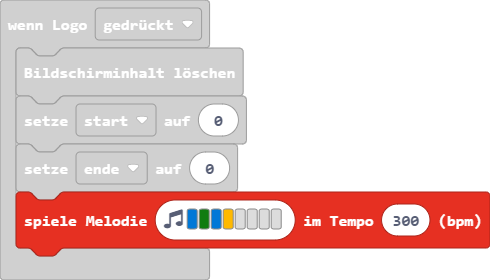
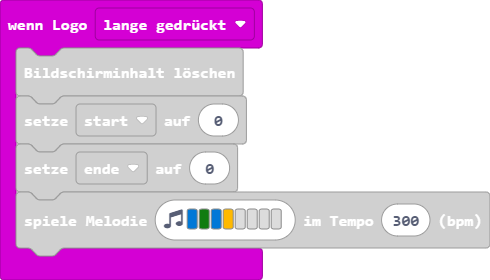
Aktualisiere main.blocks, main.ts

diff --git a/main.ts b/main.ts
@@ -1,4 +1,4 @@
-input.onLogoEvent(TouchButtonEvent.Pressed, function () {
+input.onLogoEvent(TouchButtonEvent.LongPressed, function () {
     basic.clearScreen()
     start = 0
     ende = 0
